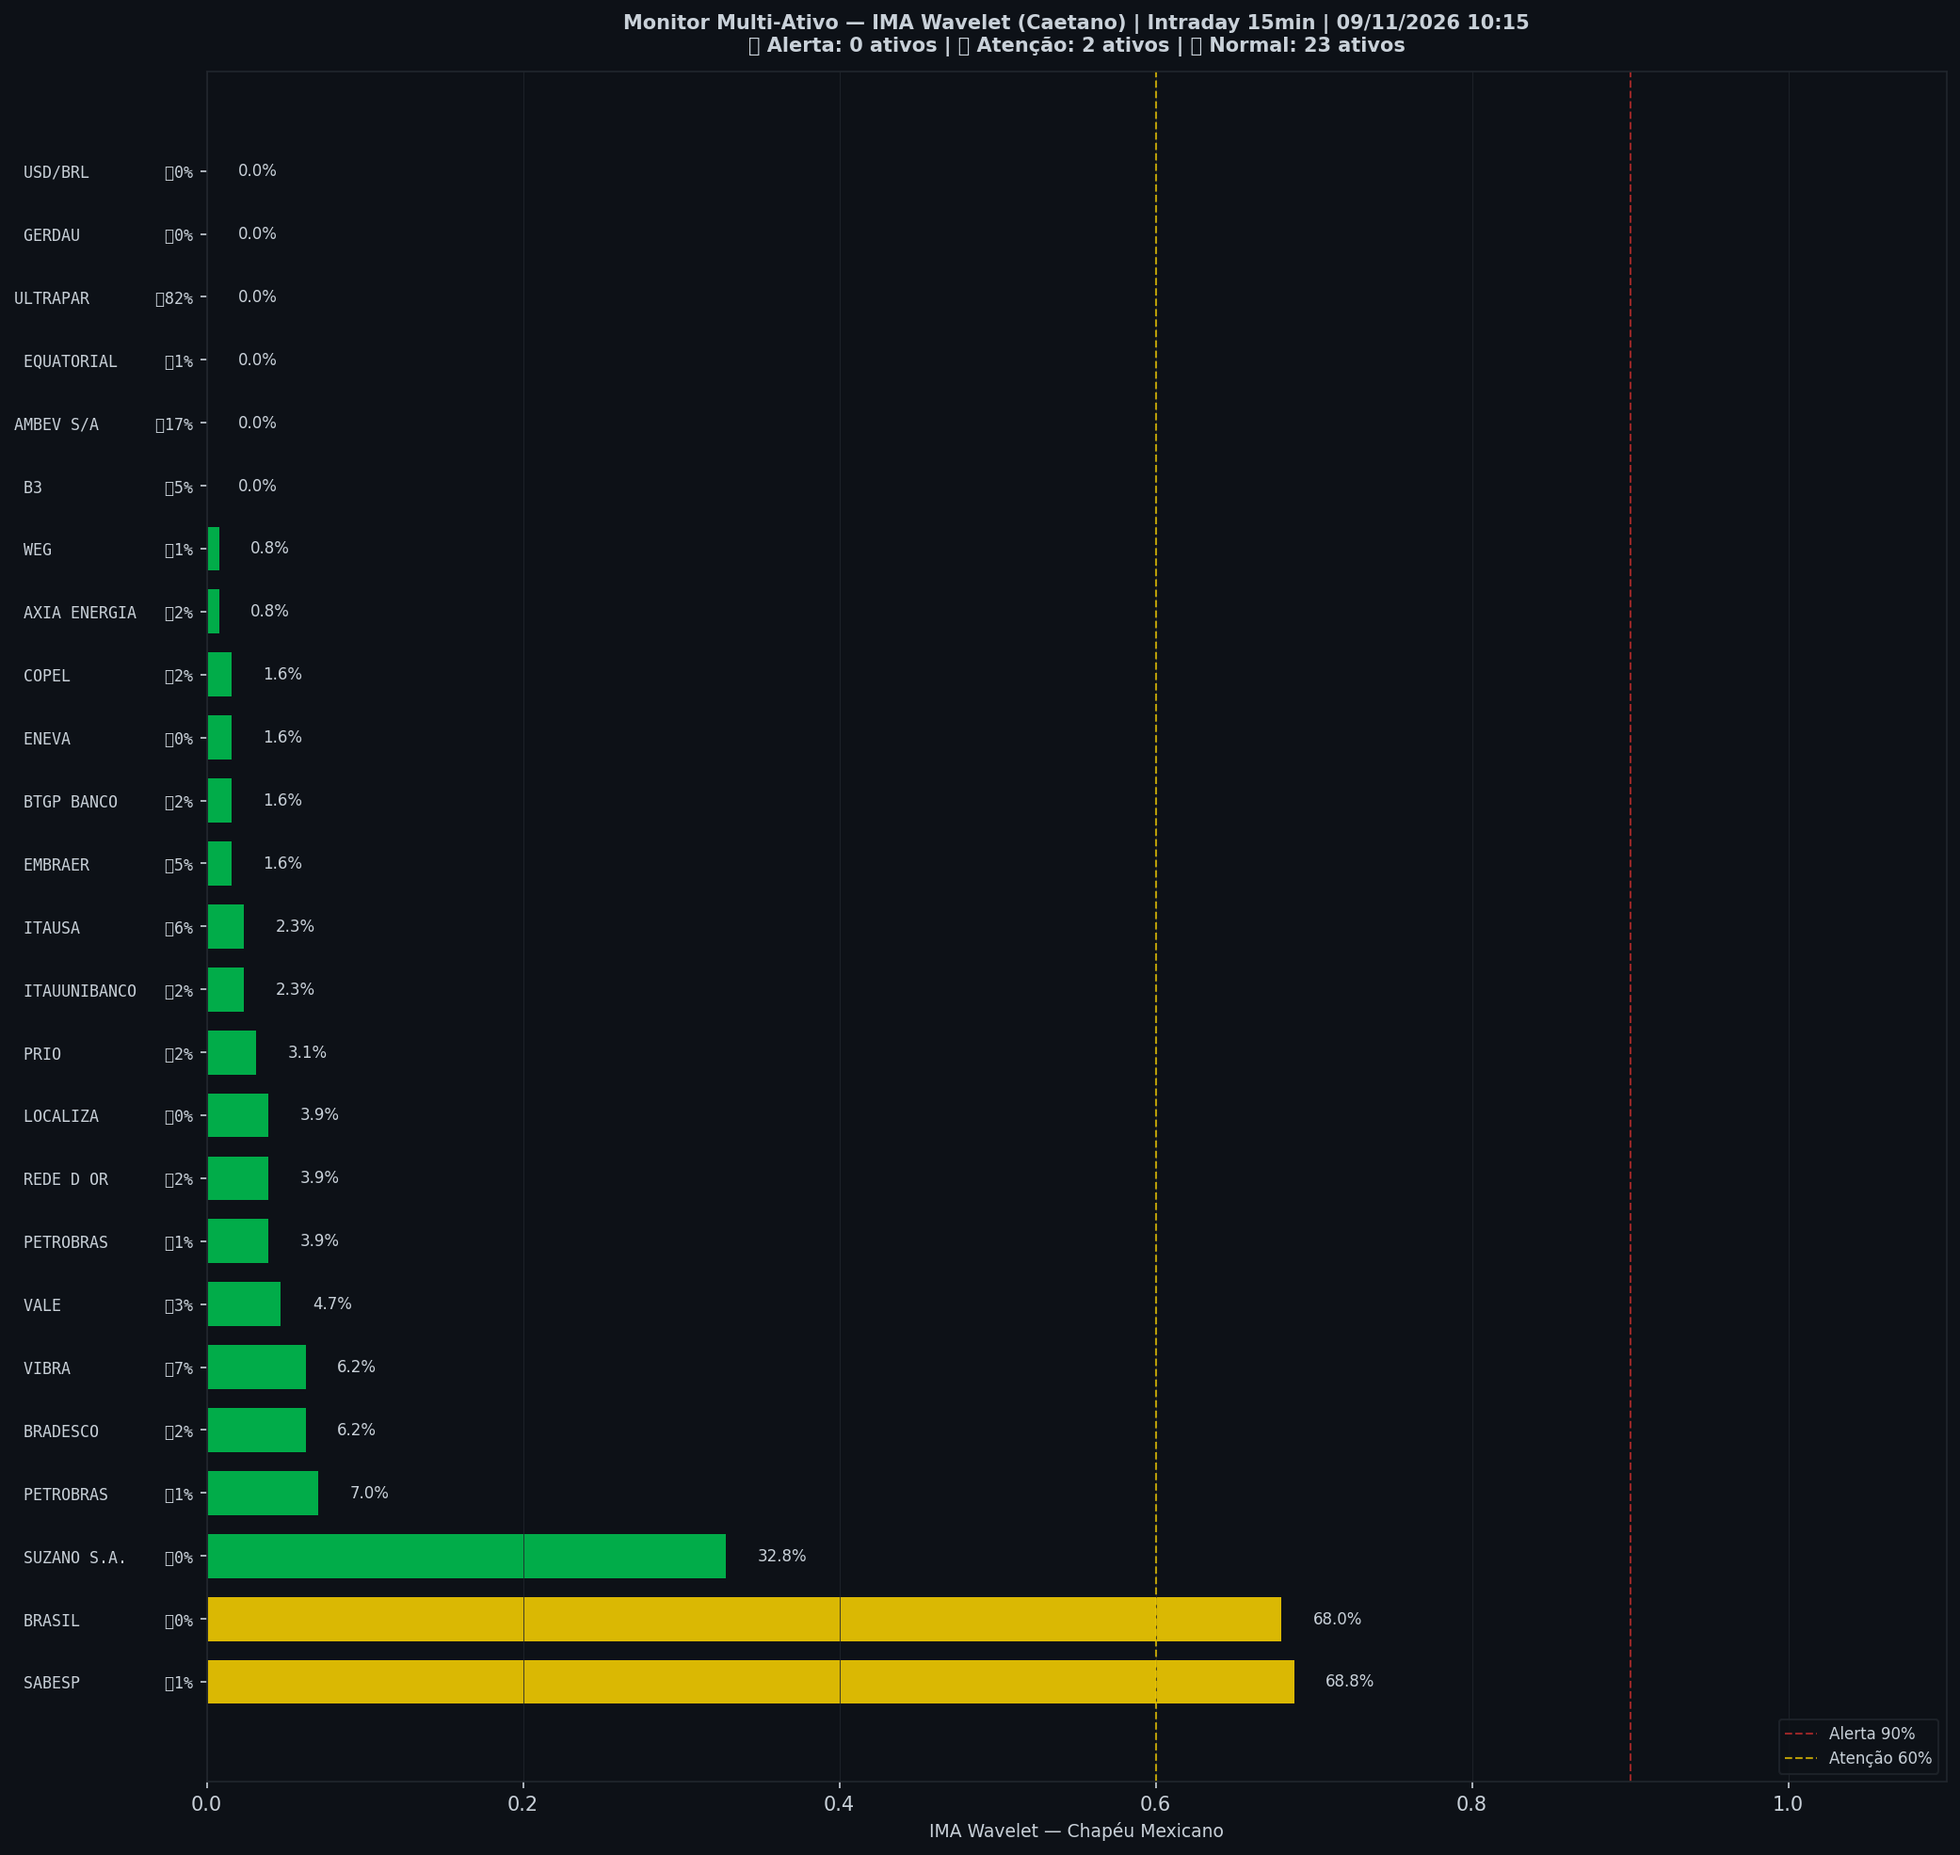
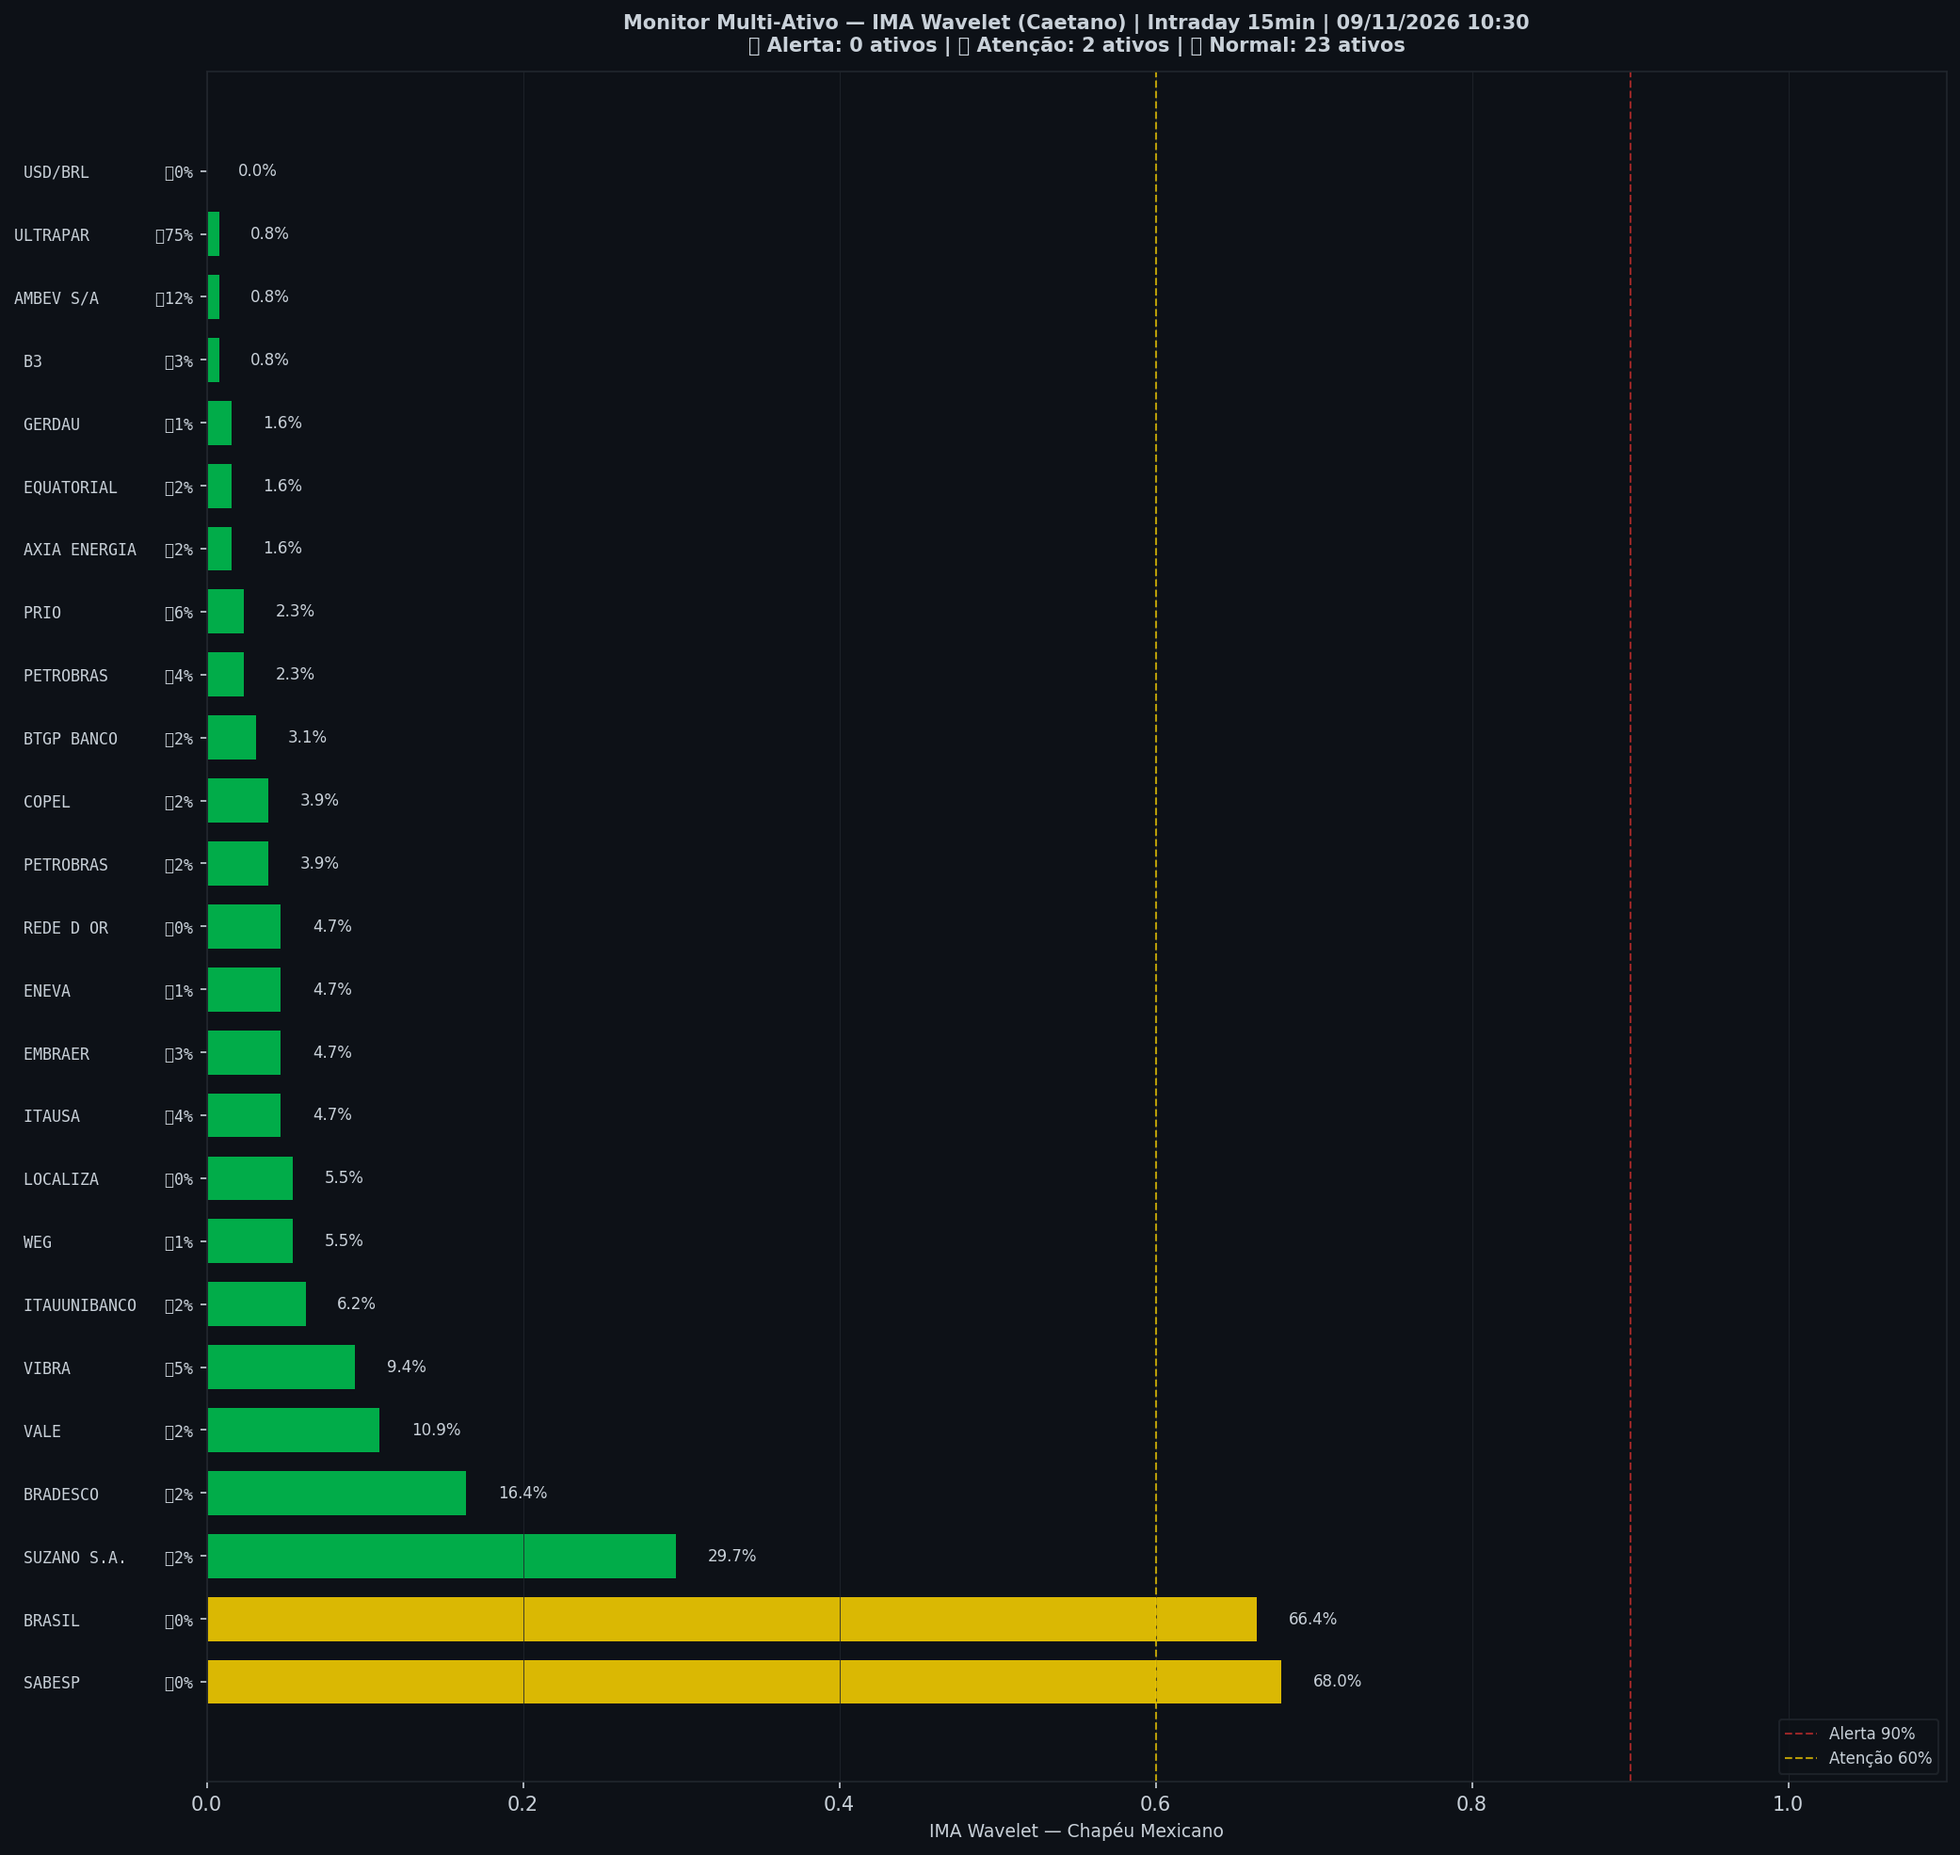
🤖 Auto: Sinal 09/11/2026 10:31

diff --git a/content/intraday/2026-11-09.md b/content/intraday/2026-11-09.md
@@ -1,11 +1,11 @@
 ---
-title: "🟢 Intraday 09/11/2026 10:00 BRT — VERDE"
+title: "🟢 Intraday 09/11/2026 10:15 BRT — VERDE"
 date: 2026-11-09
 tags: [intraday]
 ---
 
-> [!success] Onde o mercado está agora (09/11 10:00, candles de 15 min): **🟢 Calmo**
-> `Pânico ◀──────────●──────────▶ Euforia`
+> [!success] Onde o mercado está agora (09/11 10:15, candles de 15 min): **🟢 Calmo**
+> `Pânico ◀───────────●─────────▶ Euforia`
 >
 > O Ibovespa está dentro da sua faixa normal, sem excesso para cima nem para baixo.
 > No gráfico diário: 🔪 Queda forte em curso.
@@ -20,8 +20,8 @@ tags: [intraday]
 > | 📍 **Sinais** | hoje: nenhum sinal | [abrir](sinais-topo-fundo/) |
 > | 🧪 **Placar ao vivo** | 1 operação(ões), 0 com lucro, soma -0,8% | [abrir](operacoes/) |
 
-> [!success] IMA Intraday · 15 min (09/11 10:00): 🟢 **VERDE** — Risco 4% · ▲ +2 p.p. vs leitura anterior
-> `█░░░░░░░░░░░░░░░░░░░`
+> [!success] IMA Intraday · 15 min (09/11 10:15): 🟢 **VERDE** — Risco 8% · ▲ +4 p.p. vs leitura anterior
+> `██░░░░░░░░░░░░░░░░░░`
 > Preço na faixa normal em torno da tendência.
 
 
@@ -32,13 +32,13 @@ tags: [intraday]
 >
 > *Leitura educacional baseada em 26 anos de dados, não recomendação. [Como usar](../metodologia/crise#3-como-usar-na-prática).*
 
-| Indicador — IMA Intraday · 15 min (09/11 10:00) | Valor |
+| Indicador — IMA Intraday · 15 min (09/11 10:15) | Valor |
 |---|---|
-| 🔴 ζ Topo — preço esticado acima da tendência | **4%** |
-| 🔵 ζ Fundo — preço esticado abaixo da tendência | 1% |
+| 🔴 ζ Topo — preço esticado acima da tendência | **8%** |
+| 🔵 ζ Fundo — preço esticado abaixo da tendência | 2% |
 | 🫧 LPPL bolha — alta super-exponencial (risco de crash) | 0% |
 | 🫧 LPPL antibolha — queda super-exponencial (risco de repique) | 0% |
-| 📊 Ibovespa | 169.341 pts |
+| 📊 Ibovespa | 169.890 pts |
 
 ![Gráfico do sinal](../graficos/sinal_intraday.png)
 
@@ -46,6 +46,7 @@ tags: [intraday]
 
 | Data | Zona | Evento | Risco | ζ Topo | ζ Fundo | LPPL |
 |---|---|---|---|---|---|---|
+| 2026-11-09 10:15 | 🟢 VERDE |  | **8%** | 8% | 2% | 0% |
 | 2026-11-09 10:00 | 🟢 VERDE |  | **4%** | 4% | 1% | 0% |
 | 2026-11-06 18:00 | 🟢 VERDE |  | **2%** | 2% | 0% | 0% |
 | 2026-11-06 17:45 | 🟢 VERDE |  | **2%** | 2% | 0% | 0% |
@@ -75,7 +76,6 @@ tags: [intraday]
 | 2026-11-06 11:45 | 🟢 VERDE |  | **21%** | 21% | 1% | 0% |
 | 2026-11-06 11:30 | 🟢 VERDE |  | **13%** | 13% | 2% | 0% |
 | 2026-11-06 11:15 | 🟢 VERDE |  | **7%** | 7% | 1% | 0% |
-| 2026-11-06 11:00 | 🟢 VERDE |  | **2%** | 2% | 0% | 0% |
 
 <small>Destaques: 🟡 ≥ 60% · 🔴 ≥ 90% (Risco e ζ Topo) · 🔵 ≥ 60% · 🔪 ≥ 90% (ζ Fundo) · 🫧 ≥ 30% · 🫧🔴 ≥ 50% (LPPL)</small>
 
@@ -84,41 +84,41 @@ tags: [intraday]
 **8% dos ativos em tensão** (0🔴 2🟡) · **1 com ζ Fundo alto** — quanto mais ativos disparam juntos, mais confiável o sinal.
 
 > [!warning] Em destaque no multi-ativo
-> 🔵 **ULTRAPAR** ζ Fundo 82% · 🟡 **SABESP** ζ Topo 69% · 🟡 **BRASIL** ζ Topo 68%
+> 🔵 **ULTRAPAR** ζ Fundo 75% · 🟡 **SABESP** ζ Topo 68% · 🟡 **BRASIL** ζ Topo 66%
 
 | Zona | Ativo | Setor | ζ Topo | ζ Fundo |
 |---|---|---|---|---|
-| 🟢 | **ULTRAPAR** | Outros | 0.0% | 🔵 **82.0%** |
-| 🟡 | **SABESP** | Saneamento | 🟡 **68.8%** | 0.8% |
-| 🟡 | **BRASIL** | Financeiro | 🟡 **68.0%** | 0.0% |
-| 🟢 | **SUZANO S.A.** | Papel/Celulose | 32.8% | 0.0% |
-| 🟢 | **AMBEV S/A** | Consumo | 0.0% | 17.2% |
-| 🟢 | **PETROBRAS** | Petróleo | 7.0% | 0.8% |
-| 🟢 | **VIBRA** | Energia | 6.2% | 7.0% |
-| 🟢 | **ITAUSA** | Financeiro | 2.3% | 6.2% |
-| 🟢 | **BRADESCO** | Financeiro | 6.2% | 1.6% |
-| 🟢 | **VALE** | Mineração | 4.7% | 3.1% |
-| 🟢 | **EMBRAER** | Outros | 1.6% | 4.7% |
-| 🟢 | **B3** | Financeiro | 0.0% | 4.7% |
-| 🟢 | **PETROBRAS** | Petróleo | 3.9% | 0.8% |
-| 🟢 | **REDE D OR** | Saúde | 3.9% | 1.6% |
-| 🟢 | **LOCALIZA** | Aluguel | 3.9% | 0.0% |
-| 🟢 | **PRIO** | Petróleo | 3.1% | 2.3% |
-| 🟢 | **ITAUUNIBANCO** | Financeiro | 2.3% | 1.6% |
-| 🟢 | **AXIA ENERGIA** | Energia | 0.8% | 2.3% |
-| 🟢 | **BTGP BANCO** | Financeiro | 1.6% | 2.3% |
-| 🟢 | **ENEVA** | Energia | 1.6% | 0.0% |
-| 🟢 | **COPEL** | Energia | 1.6% | 1.6% |
-| 🟢 | **WEG** | Industrial | 0.8% | 0.8% |
-| 🟢 | **EQUATORIAL** | Energia | 0.0% | 0.8% |
-| 🟢 | **GERDAU** | Siderurgia | 0.0% | 0.0% |
+| 🟢 | **ULTRAPAR** | Outros | 0.8% | 🔵 **75.0%** |
+| 🟡 | **SABESP** | Saneamento | 🟡 **68.0%** | 0.0% |
+| 🟡 | **BRASIL** | Financeiro | 🟡 **66.4%** | 0.0% |
+| 🟢 | **SUZANO S.A.** | Papel/Celulose | 29.7% | 1.6% |
+| 🟢 | **BRADESCO** | Financeiro | 16.4% | 2.3% |
+| 🟢 | **AMBEV S/A** | Consumo | 0.8% | 11.7% |
+| 🟢 | **VALE** | Mineração | 10.9% | 2.3% |
+| 🟢 | **VIBRA** | Energia | 9.4% | 4.7% |
+| 🟢 | **ITAUUNIBANCO** | Financeiro | 6.2% | 2.3% |
+| 🟢 | **PRIO** | Petróleo | 2.3% | 6.2% |
+| 🟢 | **WEG** | Industrial | 5.5% | 0.8% |
+| 🟢 | **LOCALIZA** | Aluguel | 5.5% | 0.0% |
+| 🟢 | **ITAUSA** | Financeiro | 4.7% | 3.9% |
+| 🟢 | **EMBRAER** | Outros | 4.7% | 3.1% |
+| 🟢 | **ENEVA** | Energia | 4.7% | 0.8% |
+| 🟢 | **REDE D OR** | Saúde | 4.7% | 0.0% |
+| 🟢 | **PETROBRAS** | Petróleo | 3.9% | 1.6% |
+| 🟢 | **PETROBRAS** | Petróleo | 2.3% | 3.9% |
+| 🟢 | **COPEL** | Energia | 3.9% | 1.6% |
+| 🟢 | **B3** | Financeiro | 0.8% | 3.1% |
+| 🟢 | **BTGP BANCO** | Financeiro | 3.1% | 2.3% |
+| 🟢 | **AXIA ENERGIA** | Energia | 1.6% | 2.3% |
+| 🟢 | **EQUATORIAL** | Energia | 1.6% | 1.6% |
+| 🟢 | **GERDAU** | Siderurgia | 1.6% | 0.8% |
 | 🟢 | **USD/BRL** | Câmbio | 0.0% | 0.0% |
 
 <small>Destaques: 🟡 ≥ 60% · 🔴 ≥ 90% (Risco e ζ Topo) · 🔵 ≥ 60% · 🔪 ≥ 90% (ζ Fundo) · 🫧 ≥ 30% · 🫧🔴 ≥ 50% (LPPL)</small>
 
 ![Monitor multi-ativo](../graficos/multi_intraday.png)
 
-*Página atualizada em 09/11/2026 10:15 BRT (leitura da barra de 2026-11-09 10:00 BRT).*
+*Página atualizada em 09/11/2026 10:30 BRT (leitura da barra de 2026-11-09 10:15 BRT).*
 
 > [!warning] O que este indicador não faz
 > Medido em 5 anos de Ibovespa, o ζ **não antecipa** topos nem fundos: a capacidade de separar o que sobe do que cai ficou em 0,49–0,52, e 0,50 é moeda jogada ao ar. Ele descreve o estado de agora; não é aviso do que vem. As zonas verde/amarelo/vermelho continuam na página como descrição desse estado — **não as use como sinal de entrada ou saída**.

diff --git a/content/index.md b/content/index.md
@@ -6,10 +6,10 @@ tags: [home]
 
 **As ondas do mercado, explicadas.** Leitura do Ibovespa com estatística de 26 anos, baseada no trabalho de pesquisadores e traders reconhecidos e adaptada por Jarbas Daniel da Costa.
 
-*Última atualização: 09/11/2026 10:15 BRT · Intraday 15min*
+*Última atualização: 09/11/2026 10:30 BRT · Intraday 15min*
 
-> [!success] Onde o mercado está agora (09/11 10:00, candles de 15 min): **🟢 Calmo**
-> `Pânico ◀──────────●──────────▶ Euforia`
+> [!success] Onde o mercado está agora (09/11 10:15, candles de 15 min): **🟢 Calmo**
+> `Pânico ◀───────────●─────────▶ Euforia`
 >
 > O Ibovespa está dentro da sua faixa normal, sem excesso para cima nem para baixo.
 > No gráfico diário: 🔪 Queda forte em curso.
@@ -20,7 +20,7 @@ tags: [home]
 
 | Módulo | Agora | |
 |---|---|---|
-| 🌊 **Sinal IMA** | 🟢 VERDE · 🟢 calmo · ζ Topo 4% | [relatório](intraday/2026-11-09) |
+| 🌊 **Sinal IMA** | 🟢 VERDE · 🟢 calmo · ζ Topo 8% | [relatório](intraday/2026-11-09) |
 | 📈 **Tendência MME9** | Diário — fora<br>Semanal — fora | [abrir](operacoes/tendencia) |
 | 🎯 **Entradas do método** | ⏳ aguardando: Diário · Nadaraya, Diário · Semáforo N3 após ζ Fundo | [abrir](operacoes/entradas) |
 | 📍 **Sinais** | hoje: nenhum sinal | [abrir](sinais-topo-fundo/) |
@@ -49,18 +49,18 @@ tags: [home]
 > *Leitura educacional baseada em 26 anos de dados, não recomendação. [Como usar](metodologia/crise#3-como-usar-na-prática).*
 
 > [!info]- 🌊 Detalhes do Sinal IMA (indicadores e últimos 7 pregões)
-> > [!success] IMA Intraday · 15 min (09/11 10:00): 🟢 **VERDE** — Risco 4% · ▲ +2 p.p. vs leitura anterior
-> > `█░░░░░░░░░░░░░░░░░░░`
+> > [!success] IMA Intraday · 15 min (09/11 10:15): 🟢 **VERDE** — Risco 8% · ▲ +4 p.p. vs leitura anterior
+> > `██░░░░░░░░░░░░░░░░░░`
 > > Preço na faixa normal em torno da tendência.
 >
 >
-> | Indicador — IMA Intraday · 15 min (09/11 10:00) | Valor |
+> | Indicador — IMA Intraday · 15 min (09/11 10:15) | Valor |
 > |---|---|
-> | 🔴 ζ Topo — preço esticado acima da tendência | **4%** |
-> | 🔵 ζ Fundo — preço esticado abaixo da tendência | 1% |
+> | 🔴 ζ Topo — preço esticado acima da tendência | **8%** |
+> | 🔵 ζ Fundo — preço esticado abaixo da tendência | 2% |
 > | 🫧 LPPL bolha — alta super-exponencial (risco de crash) | 0% |
 > | 🫧 LPPL antibolha — queda super-exponencial (risco de repique) | 0% |
-> | 📊 Ibovespa | 169.341 pts |
+> | 📊 Ibovespa | 169.890 pts |
 >
 > **Multi-ativo:** 8% em tensão (0🔴 2🟡 de 25 ativos)
 >
@@ -68,7 +68,7 @@ tags: [home]
 >
 > | Data | Zona | Risco | ζ Topo | ζ Fundo | LPPL |
 > |---|---|---|---|---|---|
-> | [09/11/2026](intraday/2026-11-09) | 🟢 VERDE | **4%** | 4% | 1% | 0% |
+> | [09/11/2026](intraday/2026-11-09) | 🟢 VERDE | **8%** | 8% | 2% | 0% |
 > | [06/11/2026](intraday/2026-11-06) | 🟢 VERDE | **2%** | 2% | 0% | 0% |
 >
 > <small>Destaques: 🟡 ≥ 60% · 🔴 ≥ 90% (Risco e ζ Topo) · 🔵 ≥ 60% · 🔪 ≥ 90% (ζ Fundo) · 🫧 ≥ 30% · 🫧🔴 ≥ 50% (LPPL)</small>

diff --git a/content/historico.md b/content/historico.md
@@ -5,7 +5,7 @@ tags: [historico]
 
 # 📜 Histórico de leituras (v5)
 
-**2.211 leituras** desde 2026-07-03. Na página ficam os últimos 3 dias leitura por leitura e o resumo de cada dia anterior; o registro inteiro está no arquivo para baixar.
+**2.212 leituras** desde 2026-07-03. Na página ficam os últimos 3 dias leitura por leitura e o resumo de cada dia anterior; o registro inteiro está no arquivo para baixar.
 
 [**Baixar o histórico completo**](historico-completo.csv) (97 KB · abre no Excel e no LibreOffice)
 
@@ -16,6 +16,7 @@ tags: [historico]
 
 | Data | Modo | Zona | Risco | IMA | LPPL |
 |---|---|---|---|---|---|
+| 2026-11-09 10:15 | intraday | 🟢 VERDE | 8% | 8% | 0% |
 | 2026-11-09 10:00 | intraday | 🟢 VERDE | 4% | 4% | 0% |
 | 2026-11-06 18:00 | intraday | 🟢 VERDE | 2% | 2% | 0% |
 | 2026-11-06 17:45 | intraday | 🟢 VERDE | 2% | 2% | 0% |

diff --git a/content/operacoes/ranking.md b/content/operacoes/ranking.md
@@ -5,7 +5,7 @@ tags: [operacoes]
 description: "As regras de compra do site ordenadas pelo resultado, com treino, teste e placar ao vivo"
 ---
 
-*Atualizado 09/11/2026 10:15 · histórico simulado com as regras congeladas em 23/10/2026 + placar ao vivo.*
+*Atualizado 09/11/2026 10:30 · histórico simulado com as regras congeladas em 23/10/2026 + placar ao vivo.*
 
 As regras de compra do site, **da que mais rendeu para a que menos rendeu**. O resultado é por operação, no índice à vista, sem custos e sem juros compostos (a soma é só a soma das operações). **Treino** = entradas de 2001 a 2013 e **teste** = 2014 em diante: uma regra só é confiável se ganhou nos dois. O único resultado sem nenhum ajuste ao histórico é o **placar ao vivo**.
 

diff --git a/content/linha-do-tempo/index.md b/content/linha-do-tempo/index.md
@@ -5,7 +5,7 @@ description: "Todo sinal, ordem, stop e aviso do Pêndulo de Mercado, do mais re
 tags: [eventos]
 ---
 
-*Atualizada 09/11/2026 10:15 BRT · a cada 15 min no pregão e às 19h.*
+*Atualizada 09/11/2026 10:30 BRT · a cada 15 min no pregão e às 19h.*
 
 Tudo o que o sistema fez ou detectou, **do mais recente para o mais antigo**: sinais de topo e fundo, ordens de compra e de venda armadas, compras, vendas, stops, avisos de 🚨 preço perto do nível e mudanças do Sinal IMA. Os **últimos 7 dias** ficam abertos; o resto, por **ano → mês → dia**.
 
